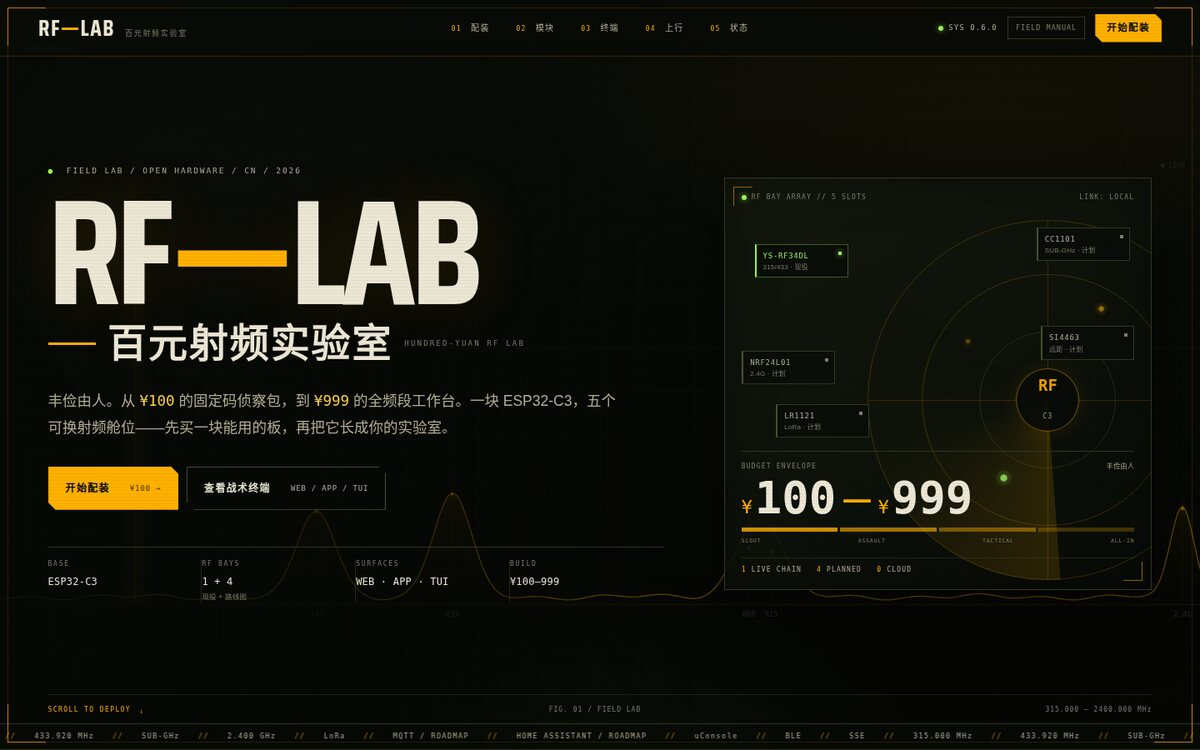
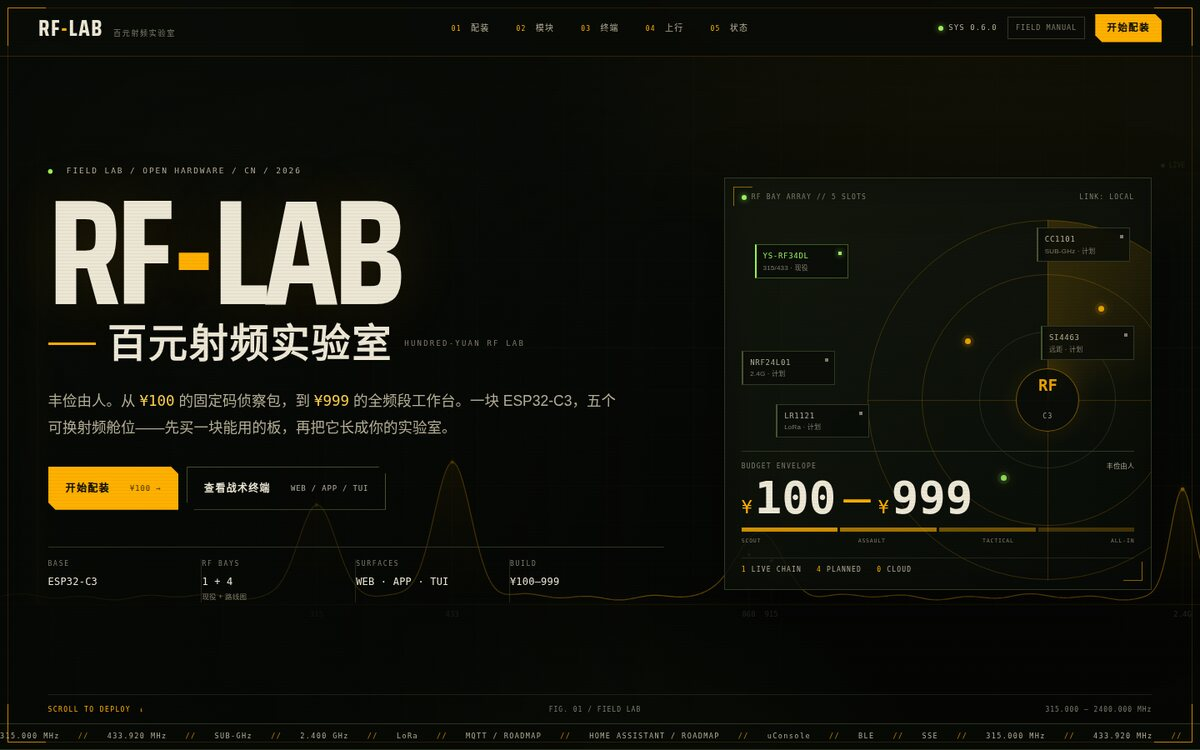
ui: use English hyphen in RF-LAB wordmark
- 官网与设备端字标 RF—LAB → RF-LAB(英文 -,保留琥珀色)
- 重建 web/dist、固件 gzip、Android assets/APK;gzip 15,503B、APK 1,275,234B
- 重拍 mock UI 截图(ui-2026-11-16b-*),README/site 资产同步;无命令/API 变更

diff --git a/site/index.html b/site/index.html
@@ -37,7 +37,7 @@
 
 <header class="nav" id="top">
   <a class="nav-mark" href="#top" aria-label="RF-LAB 首页">
-    <span class="mark">RF<span>—</span>LAB</span>
+    <span class="mark">RF<span>-</span>LAB</span>
     <span class="mark-sub">百元射频实验室</span>
   </a>
   <nav class="nav-links" aria-label="主导航">
@@ -61,7 +61,7 @@
     <div class="hero-inner">
       <div class="hero-copy">
         <p class="eyebrow reveal"><span class="blink">●</span> FIELD LAB / OPEN HARDWARE / CN / 2026</p>
-        <h1 class="masthead reveal" id="heroTitle">RF<span class="dash">—</span>LAB</h1>
+        <h1 class="masthead reveal" id="heroTitle">RF<span class="dash">-</span>LAB</h1>
         <div class="cn-title reveal">
           <span class="cn-rule" aria-hidden="true"></span>
           <span>百元射频实验室</span>
@@ -621,7 +621,7 @@ payload: "SEND 1"</code></pre>
   </div>
   <div class="footer-grid">
     <div class="footer-brand">
-      <span class="mark">RF<span>—</span>LAB</span>
+      <span class="mark">RF<span>-</span>LAB</span>
       <p>百元射频实验室。丰俭由人，先让它可用，再让它更强。</p>
       <span class="footer-status"><i class="dot ok"></i> 0.6.0 / FIELD LAB / 2026</span>
     </div>

diff --git a/android/app/src/main/assets/index.html b/android/app/src/main/assets/index.html
@@ -429,7 +429,7 @@ input:focus{border-color:var(--amber); box-shadow:inset 0 -2px 0 var(--amber)}
   <header class="top">
     <div class="brand-block">
       <div class="eyebrow"><span class="eyebrow-tag">RF-LAB</span>FIELD TERMINAL // 315·433 // LAB 100—999</div>
-      <h1 class="brand">RF<span>—</span>LAB</h1>
+      <h1 class="brand">RF<span>-</span>LAB</h1>
       <div class="sub">百元射频实验室 <em>//</em> LEARN · REPLAY · TRANSMIT</div>
     </div>
     <div class="clock-block">

diff --git a/web/dist/index.html b/web/dist/index.html
@@ -429,7 +429,7 @@ input:focus{border-color:var(--amber); box-shadow:inset 0 -2px 0 var(--amber)}
   <header class="top">
     <div class="brand-block">
       <div class="eyebrow"><span class="eyebrow-tag">RF-LAB</span>FIELD TERMINAL // 315·433 // LAB 100—999</div>
-      <h1 class="brand">RF<span>—</span>LAB</h1>
+      <h1 class="brand">RF<span>-</span>LAB</h1>
       <div class="sub">百元射频实验室 <em>//</em> LEARN · REPLAY · TRANSMIT</div>
     </div>
     <div class="clock-block">

diff --git a/web/index.html b/web/index.html
@@ -19,7 +19,7 @@
   <header class="top">
     <div class="brand-block">
       <div class="eyebrow"><span class="eyebrow-tag">RF-LAB</span>FIELD TERMINAL // 315·433 // LAB 100—999</div>
-      <h1 class="brand">RF<span>—</span>LAB</h1>
+      <h1 class="brand">RF<span>-</span>LAB</h1>
       <div class="sub">百元射频实验室 <em>//</em> LEARN · REPLAY · TRANSMIT</div>
     </div>
     <div class="clock-block">

diff --git a/README.md b/README.md
@@ -119,9 +119,9 @@ Wi-Fi 回退上机自检:`python3 tools/wifi_selftest.py --port /dev/ttyACM0`(15
 | 上机:重启 AP 关闭 | ✅ `mode=sta ap_on=0`,LAN 仍可访问 |
 | 上机:AP 内配网 / CLEAR | ✅ 设备内;WebTest 经 AP 200,`WIFI CLEAR` 回 AP |
 | 上机:BLE 广播 | ✅ `INFO` `adv=yes`;⏳ **真实手机连接未测**(本机无 BT 适配器) |
-| Android APK | ✅ `assembleDebug` 1,275,236B;⏳ 真机安装/BLE 未测 |
+| Android APK | ✅ `assembleDebug` 1,275,234B;⏳ 真机安装/BLE 未测 |
 | uConsole TUI | ✅ 主机解析/键位/PTY 布局;⏳ 真机未测 |
-| Web UI refresh(2026-11-16) | ✅ 构建 + mock 布局;gzip 15,504B;⏳ **新皮肤未上机** |
+| Web UI refresh(2026-11-16) | ✅ 构建 + mock 布局;gzip 15,503B;⏳ **新皮肤未上机** |
 | 官网 / 配装台(静态) | ✅ 2026-11-16 主机 Chromium 1440×900 / 390×844,无 console error;`tools/site_check.py` 通过;无外部请求 |
 | 官网线上(Cloudflare Pages) | ✅ <https://rf-lab-388.pages.dev/>;`/`、CSS、JS、WebP、robots、sitemap 均 200 |
 | 路线图:MQTT / HA / 多模块 | ○ **未实现**,接口草案见官网 §04 |
@@ -161,9 +161,9 @@ Wi-Fi 回退上机自检:`python3 tools/wifi_selftest.py --port /dev/ttyACM0`(15
 
 2026-11-16 UI refresh 的 mock API 布局验收图(不是上机截图,新皮肤未烧录):
 
-![桌面 1440×900](docs/evidence/ui-2026-11-16-desktop.png)
-![uConsole 1280×720](docs/evidence/ui-2026-11-16-uconsole.png)
-![手机 390×844](docs/evidence/ui-2026-11-16-mobile.png)
+![桌面 1440×900](docs/evidence/ui-2026-11-16b-desktop.png)
+![uConsole 1280×720](docs/evidence/ui-2026-11-16b-uconsole.png)
+![手机 390×844](docs/evidence/ui-2026-11-16b-mobile.png)
 
 真实设备 LAN 页面(0.6.0 旧皮肤,`192.168.5.117`,非 mock)仍保留作为上机证据:
 

diff --git a/docs/evidence/2026-11-16-ui-refresh.md b/docs/evidence/2026-11-16-ui-refresh.md
@@ -20,7 +20,7 @@
 
 ## 2. 改了什么
 
-- 品牌锁定:`RF—LAB` 字标 + `百元射频实验室` 中文副标;顶部 `RF-LAB` 标与
+- 品牌锁定:`RF-LAB` 字标 + `百元射频实验室` 中文副标;顶部 `RF-LAB` 标与
   `LAB 100—999` 系列标识。
 - 状态栏新增 `BAY YS-RF34DL`:当前唯一射频舱位,不暗示其他模块已接入。
 - 底部新增 96 柱 `RF SPECTRUM // 315 / 433 MHz` 装饰带(纯 CSS 动画 + 本地生成 DOM)。
@@ -91,3 +91,20 @@ learn/send 事件;和 2026-11-15 的 mock 口径一致。不是上机图。
 - 主机检查:`/`、`/style.css`、`/app.js`、`/assets/terminal-web.webp`、`/robots.txt`、
   `/sitemap.xml` 均 **200**;Chromium 390×844 无 console error,配装器 100/272/988 正常。
 - 截图仍是 mock 布局图;线上地址不等于设备上机验证。
+
+
+## 8. 2026-11-16b 字标修正（英文连字符）
+
+按反馈把品牌字标从 `RF—LAB` 改为 `RF-LAB`（英文 `-`，保留琥珀色）:
+
+| 项 | 2026-11-16 | 2026-11-16b |
+|---|---|---|
+| Web 单页 | 55,052 B | 55,050 B |
+| gzip | 15,504 B | 15,503 B |
+| Android assets | 55,052 B | 55,050 B |
+| APK | 1,275,236 B | 1,275,234 B |
+
+截图更新为 [`ui-2026-11-16b-desktop.png`](ui-2026-11-16b-desktop.png)、
+[`ui-2026-11-16b-uconsole.png`](ui-2026-11-16b-uconsole.png)、
+[`ui-2026-11-16b-mobile.png`](ui-2026-11-16b-mobile.png)。仍是 mock 布局图;
+命令/API/元素 ID 未变,新皮肤仍未重新烧录上机。

diff --git a/docs/evidence/README.md b/docs/evidence/README.md
@@ -13,6 +13,7 @@
 | [`2026-11-15-ui-serial.log`](2026-11-15-ui-serial.log) | `tools/device_selftest.py --tx` 串口全文 | 18 项上机检查的原始输出 |
 | [`ui-desktop-1440.png`](ui-desktop-1440.png) 等 | Playwright + mock API | 0.6.0 旧皮肤桌面/uConsole/手机布局;不是设备截图 |
 | [`ui-2026-11-16-desktop.png`](ui-2026-11-16-desktop.png) 等 | [`tools/ui_mock_server.py`](../tools/ui_mock_server.py) + Chromium | 2026-11-16 品牌/频谱带布局;不是设备截图;新皮肤未上机 |
+| [`ui-2026-11-16b-desktop.png`](ui-2026-11-16b-desktop.png) 等 | 同上,字标改为英文连字符 `RF-LAB` | 当前展示用图;仍是 mock,新皮肤未上机 |
 | [`2026-11-15-wifi.md`](2026-11-15-wifi.md) | `tools/wifi_selftest.py` 15/15 + 串口全文 | 有凭据 STA-only 启动(AP 关)→15s 超时 AP 回退;AP 内配网/`WIFI CLEAR` |
 | [`2026-11-15-wifi.log`](2026-11-15-wifi.log) | 串口全文 | STA 失败、AP 回退、回退后 Web 200 的原始输出 |
 | [`2026-11-15-wifi-lan.md`](2026-11-15-wifi-lan.md) | 主机 LAN ping/curl/SSE/POST + 真实 Chromium | 设备接入 `SSID-A`,DHCP `192.168.5.117`;重启后 `mode=sta ap_on=0`(AP 关) |

diff --git a/android/README.md b/android/README.md
@@ -33,7 +33,7 @@ cd android
 > `JAVA_TOOL_OPTIONS="-DsocksProxyHost=127.0.0.1 -DsocksProxyPort=10808" ./gradlew assembleDebug`。
 > 也可以直接用本机 Gradle 8.11.1:`gradle assembleDebug`。
 
-产物:`android/app/build/outputs/apk/debug/app-debug.apk`(1,275,236B,debug 签名)。
+产物:`android/app/build/outputs/apk/debug/app-debug.apk`(1,275,234B,debug 签名)。
 
 安装:
 
@@ -69,8 +69,8 @@ BLE 参数(与固件一致):
 
 | 项 | 状态 |
 |---|---|
-| `assembleDebug` 构建 | ✅ 2026-11-16,APK 1,275,236B,debug 签名 |
-| 资源内嵌 | ✅ `assets/index.html` 55,052B,与 `web/dist` 一致 |
+| `assembleDebug` 构建 | ✅ 2026-11-16,APK 1,275,234B,debug 签名 |
+| 资源内嵌 | ✅ `assets/index.html` 55,050B,与 `web/dist` 一致 |
 | Manifest/权限/包名 | ✅ `aapt2 dump badging` 检查 |
 | 真机安装/启动 | ⏳ 需要 Android 手机 |
 | 真机 BLE 扫描/连接/鉴权/发射 | ⏳ **未验证**;本机无蓝牙适配器,不能把构建成功写成链路验证 |
